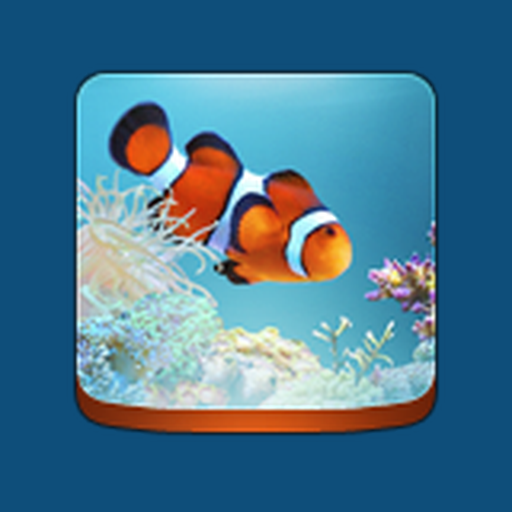
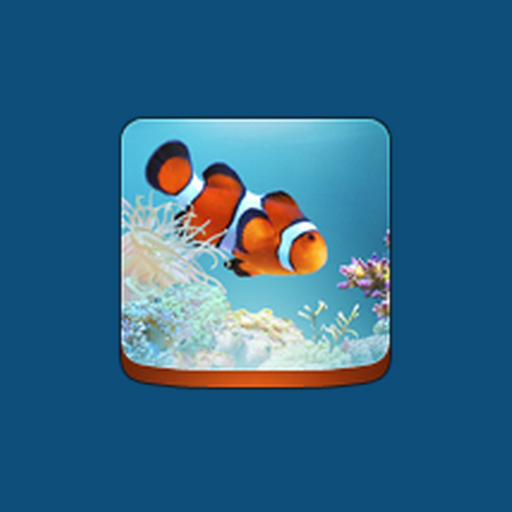
Phase 5a: Android TWA packaging groundwork
Wraps the PWA for the Play Store via a Trusted Web Activity (Bubblewrap).
No app code to maintain — web updates ship without a resubmit.

- vite.config.js: complete the manifest for store submission (id, dir,
  categories, lang, description, explicit icon purpose).
- public/.well-known/assetlinks.json: Digital Asset Links file (placeholder
  fingerprint). Copied into dist/, served as application/json.
- twa-manifest.json: Bubblewrap config; host/URL values are PLACEHOLDER_*
  to fill after deploy. packageId org.gitlgn.simaquarium.
- pwa-maskable-512.png: icon 80% -> 60% so a circular mask can't clip it
  (safe-ring content 70% -> 0%).
- .gitignore: keystores, *.aab/*.apk, .bubblewrap/, /android/, /ios/.
- docs/ANDROID.md: full playbook (Bubblewrap, Digital Asset Links, Play
  submission) + PWABuilder cloud path + Capacitor alternative.
- MODERNIZATION.md / README.md: Phase 5a status; 5b publish steps are
  owner actions (HTTPS deploy, keystore, Play Console account).

npm run check + vite build stay green (207 precache entries).

diff --git a/vite.config.js b/vite.config.js
@@ -1,9 +1,10 @@
 import { defineConfig } from 'vite';
 import { VitePWA } from 'vite-plugin-pwa';
 
-// SimAquarium — Vite config
-// Phase 1: the game still ships as classic scripts served from /public.
-// Phase 2 will move sources into /src as ES modules.
+// SimAquarium — Vite config. The game is ES modules under /src (bundled) plus
+// static assets under /public. vite-plugin-pwa emits the service worker and
+// web manifest; the manifest below also feeds Bubblewrap for the Android TWA
+// (see docs/ANDROID.md).
 export default defineConfig({
 	root: '.',
 	publicDir: 'public',
@@ -26,10 +27,13 @@ export default defineConfig({
 				maximumFileSizeToCacheInBytes: 6 * 1024 * 1024,
 			},
 			manifest: {
+				id: '/',
 				name: 'SimAquarium',
 				short_name: 'SimAquarium',
 				description: 'Aquarium simulation game — buy, breed and sell fish.',
 				lang: 'en',
+				dir: 'ltr',
+				categories: ['games', 'entertainment'],
 				theme_color: '#0e4e7a',
 				background_color: '#0e4e7a',
 				display: 'standalone',
@@ -37,8 +41,8 @@ export default defineConfig({
 				start_url: '/',
 				scope: '/',
 				icons: [
-					{ src: 'gfx/pwa-192.png', sizes: '192x192', type: 'image/png' },
-					{ src: 'gfx/pwa-512.png', sizes: '512x512', type: 'image/png' },
+					{ src: 'gfx/pwa-192.png', sizes: '192x192', type: 'image/png', purpose: 'any' },
+					{ src: 'gfx/pwa-512.png', sizes: '512x512', type: 'image/png', purpose: 'any' },
 					{
 						src: 'gfx/pwa-maskable-512.png',
 						sizes: '512x512',

diff --git a/docs/ANDROID.md b/docs/ANDROID.md
@@ -1,0 +1,129 @@
+# Packaging SimAquarium for Android
+
+The game is a PWA. The recommended route to the Play Store is a **Trusted Web
+Activity (TWA)** — a thin native shell that opens the deployed PWA full-screen,
+with no browser UI. No app code to maintain; every web update ships instantly.
+
+Use **Capacitor** instead only if you later need a native API the web platform
+doesn't expose (see the end of this doc).
+
+---
+
+## Prerequisites (one-time, on your machine)
+
+| Need | How |
+| --- | --- |
+| **A public HTTPS origin** serving `dist/` | Any static host — GitHub Pages, Netlify, Cloudflare Pages, Vercel. Must serve `/.well-known/assetlinks.json` (already in `public/`) and `/manifest.webmanifest`. |
+| **JDK 17** | `winget install EclipseAdoptium.Temurin.17.JDK` (or let Bubblewrap download its own JDK on first run). |
+| **Android SDK / command-line tools** | Bubblewrap downloads these on first run if you don't have Android Studio. |
+| **Bubblewrap CLI** | `npm i -g @bubblewrap/cli` |
+| **Google Play Console account** | One-time US$25, at <https://play.google.com/console>. Your action — required to publish. |
+
+---
+
+## Steps
+
+### 1. Deploy the PWA
+
+```bash
+npm run build
+# upload dist/ to your static host
+```
+
+Confirm in a browser:
+
+- `https://YOUR_HOST/manifest.webmanifest` loads
+- `https://YOUR_HOST/.well-known/assetlinks.json` loads (still with the
+  placeholder fingerprint for now)
+- the site is installable (Chrome DevTools → Application → Manifest, no errors)
+
+### 2. Fill in the config
+
+Edit **`twa-manifest.json`** (repo root):
+
+- `host`, `webManifestUrl`, `iconUrl`, `maskableIconUrl`, `fullScopeUrl` →
+  your real host
+- `packageId` → reverse-DNS you control, e.g. `com.yourdomain.simaquarium`
+  (this is permanent once published)
+
+### 3. Generate the project + signing key
+
+```bash
+bubblewrap init --manifest https://YOUR_HOST/manifest.webmanifest
+# it reads twa-manifest.json for the rest; it creates android.keystore
+```
+
+`bubblewrap` will prompt for a keystore password — **save it in your password
+manager**. Losing the keystore means you can never update the app again.
+
+### 4. Wire up Digital Asset Links
+
+Get the signing key's SHA-256 fingerprint:
+
+```bash
+keytool -list -v -keystore android.keystore -alias android
+# copy the "SHA256:" line, strip the colons? NO — keep them, uppercase hex
+```
+
+Put that value into **`public/.well-known/assetlinks.json`** (replace
+`REPLACE_WITH_SHA256_FINGERPRINT...`), rebuild, and redeploy so the live file
+has the real fingerprint. The TWA will not verify (browser address bar stays
+visible) until this matches.
+
+> When you enrol in **Play App Signing** (recommended), Play re-signs the app
+> with its own key. Add **that** fingerprint too — Play Console →
+> your app → Setup → App integrity shows it. `assetlinks.json` can hold
+> several fingerprints.
+
+### 5. Build the release bundle
+
+```bash
+bubblewrap build
+# -> app-release-bundle.aab  (upload this to Play)
+# -> app-release-signed.apk  (for side-loading / local testing)
+```
+
+Side-load to test:
+
+```bash
+adb install app-release-signed.apk
+```
+
+### 6. Publish
+
+Play Console → create app → upload the `.aab` → fill store listing → submit.
+First review typically 1–7 days.
+
+---
+
+## Updating
+
+- **Web content**: just redeploy `dist/`. Installed apps pick it up.
+- **Shell** (icon, name, target SDK, Bubblewrap version): bump
+  `appVersionCode` + `appVersionName` in `twa-manifest.json`, `bubblewrap
+  update`, `bubblewrap build`, upload the new `.aab`.
+
+---
+
+## Faster path without a local toolchain: PWABuilder
+
+<https://www.pwabuilder.com> → enter your deployed URL → "Package for Stores"
+→ Android → it generates the same TWA `.aab` + an `assetlinks.json` snippet in
+the cloud. Good for a first build; `twa-manifest.json` here still documents the
+intended settings.
+
+---
+
+## Alternative: Capacitor (only if you need native APIs)
+
+```bash
+npm i -D @capacitor/core @capacitor/cli @capacitor/android
+npx cap init SimAquarium org.gitlgn.simaquarium --web-dir dist
+npm run build && npx cap add android && npx cap sync
+npx cap open android      # needs Android Studio
+```
+
+`/android` is git-ignored. This bundles the web build **inside** the APK, so
+every content change needs a rebuild + resubmit — the opposite of the TWA
+trade-off. Only worth it for real native needs (e.g. Play Games Services,
+platform notifications, file pickers beyond the web APIs).

diff --git a/MODERNIZATION.md b/MODERNIZATION.md
@@ -165,11 +165,42 @@ with screenshots / a device in the loop.
 
 ## Phase 5 — Android
 
-Two options, decide when Phase 4 lands:
+Route: **Trusted Web Activity** — a thin native shell around the deployed PWA,
+built with [Bubblewrap](https://github.com/GoogleChromeLabs/bubblewrap) → AAB →
+Play Store. No app code to maintain; web updates ship without a resubmit.
+(Capacitor stays the fallback if a native API is ever needed — `/android` and
+`/ios` are git-ignored for it.)
 
-1. **Trusted Web Activity** (recommended if no native APIs are needed): wrap the
-   deployed PWA with [Bubblewrap](https://github.com/GoogleChromeLabs/bubblewrap)
-   → AAB → Play Store. Needs a hosted HTTPS origin, a Play Console developer
-   account (one-time US$25), and Digital Asset Links.
-2. **Capacitor**: if native plugins become necessary. Needs Android Studio + JDK;
-   `/android` is already git-ignored for this.
+### ✅ 5a — packaging groundwork (done)
+
+- `vite.config.js` manifest completed for store submission: `id`, `dir`,
+  `categories`, explicit icon `purpose`, `lang`, `description`.
+- `public/.well-known/assetlinks.json` — Digital Asset Links file (placeholder
+  fingerprint). Verified it is copied into `dist/` and served as
+  `application/json`.
+- `twa-manifest.json` (repo root) — Bubblewrap config, all host/URL values as
+  `PLACEHOLDER_*` to fill in after deploy. `packageId: org.gitlgn.simaquarium`.
+- `pwa-maskable-512.png` regenerated with the icon at 60 % (was 80 %) so nothing
+  is clipped by a circular mask — safe-ring now 0 % content.
+- `.gitignore`: keystores (`*.keystore` / `*.jks` / `android.keystore`), bundles
+  (`*.aab` / `*.apk`), `.bubblewrap/`, `/android/`, `/ios/`.
+- `docs/ANDROID.md` — full playbook (Bubblewrap steps, Digital Asset Links,
+  Play submission) plus the PWABuilder cloud path and the Capacitor alternative.
+
+Build stays green: `npm run check` + `vite build` (207 precache entries).
+
+### 5b — publish (needs owner action, cannot be automated here)
+
+1. Deploy `dist/` to a public HTTPS origin (GitHub Pages / Netlify / Cloudflare
+   Pages / Vercel). Confirm `/manifest.webmanifest` and
+   `/.well-known/assetlinks.json` load.
+2. Fill the `PLACEHOLDER_*` values in `twa-manifest.json`.
+3. `npm i -g @bubblewrap/cli`; `bubblewrap init --manifest https://HOST/manifest.webmanifest`
+   (creates `android.keystore` — **back up the keystore + password**).
+4. `keytool -list -v -keystore android.keystore -alias android` → put the SHA-256
+   into `assetlinks.json`, rebuild, redeploy.
+5. `bubblewrap build` → upload the `.aab` to Play Console (developer account:
+   one-time US$25).
+
+JDK 17 + Android SDK are needed locally for step 3–5, or use
+<https://www.pwabuilder.com> to generate the same `.aab` in the cloud.

diff --git a/README.md b/README.md
@@ -25,6 +25,7 @@ set up as an installable **PWA**.
 | Tooling         | ✅ ESLint (flat config) + Prettier + EditorConfig                                                                                                                                                                    |
 | Code style      | 🟢 **TypeScript** (`strict`), classes with `#private`, data objects; 15 Vitest specs. `npm run check` = tsc + eslint + test. (ESLint only covers `*.config.js` / `public/` until `typescript-eslint` supports TS 7.) |
 | Mobile layout   | 🟡 widget scales to the viewport (safe-area aware) + touch-hardened (pointer-drag speed bar, no tap delay); a fluid/reflowing layout is Phase 4b                                                                     |
+| Android         | 🟡 TWA packaging groundwork in place (`twa-manifest.json`, Digital Asset Links, [docs/ANDROID.md](docs/ANDROID.md)); building the `.aab` needs a deployed HTTPS origin + a Play Console account                        |
 
 ## Requirements
 
@@ -74,6 +75,9 @@ public/             served verbatim by Vite
   css/*.css         styles
   gfx/**            sprites, UI art, icons
   stage.js          scales the widget to the viewport; mobile.css touch-hardens it
+  .well-known/assetlinks.json   Digital Asset Links for the Android TWA
+docs/ANDROID.md     Play-Store packaging playbook (Bubblewrap / PWABuilder)
+twa-manifest.json   Bubblewrap config (fill placeholders after deploy)
 vite.config.js      Vite + vite-plugin-pwa
 vitest.config.js    test runner (jsdom, test/setup.js)
 tsconfig.json       tsc --strict settings
